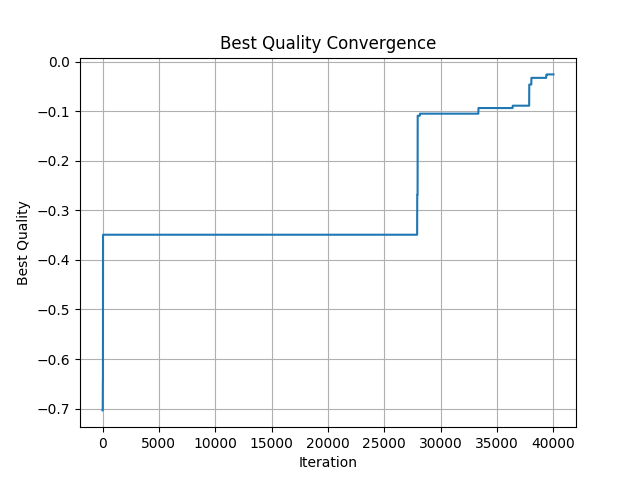
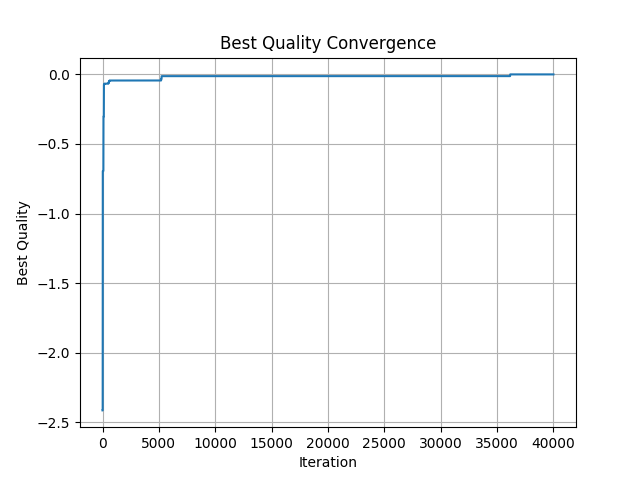
debugando

diff --git a/lab4/particle_swarm_optimization.py b/lab4/particle_swarm_optimization.py
@@ -17,14 +17,15 @@ class Particle:
         :type upper_bound: numpy array.
         """
         # Todo: implement
-        quantity_of_dimensions = len(lower_bound)
-
         self.position = np.zeros(np.size(lower_bound))
-        for i in range(quantity_of_dimensions):
+        self.velocity = np.zeros(np.size(lower_bound))
+        for i in range(np.size(lower_bound)):
+            delta_bound = upper_bound[i] - lower_bound[i]
             random_position = random.uniform(lower_bound[i], upper_bound[i])
+            random_velocity = random.uniform(-delta_bound, delta_bound)
             self.position[i] = random_position
+            self.velocity[i] = random_velocity
 
-        self.velocity = 0
         self.my_best_value = -inf
         self.my_best_position = self.position
 
@@ -46,19 +47,24 @@ class ParticleSwarmOptimization:
     """
     def __init__(self, hyperparams, lower_bound, upper_bound):
         # Todo: implement
-        self.hyperparams = hyperparams
+        self.num_particles = hyperparams.num_particles
+        self.inertia_weight = hyperparams.inertia_weight
+        self.cognitive_parameter = hyperparams.cognitive_parameter
+        self.social_parameter = hyperparams.social_parameter
+
         self.lower_bound = lower_bound
         self.upper_bound = upper_bound
         self.quantity_of_dimensions = np.size(lower_bound)
 
         self.particles = []
-        for i in range(self.hyperparams.num_particles):
-            self.particles.append(Particle(self.lower_bound, self.upper_bound))
+        for i in range(self.num_particles):
+            particle = Particle(self.lower_bound, self.upper_bound)
+            self.particles.append(particle)
 
         self.global_best_value = -inf
         self.global_best_position = self.particles[0].position
 
-        self.count_particles_evaluated = 0
+        self.count_particle_to_evaluate = 0
 
     def get_best_position(self):
         """
@@ -88,7 +94,7 @@ class ParticleSwarmOptimization:
         :rtype: numpy array.
         """
         # Todo: implement
-        position_to_evaluate = self.particles[self.count_particles_evaluated].position
+        position_to_evaluate = self.particles[self.count_particle_to_evaluate].position
 
         return position_to_evaluate
 
@@ -97,25 +103,31 @@ class ParticleSwarmOptimization:
         Advances the generation of particles.
         """
         # Todo: implement
+        print("\nAdvance generation")
+        i = 0
         for particle in self.particles:
+            print("\nparticula " + str(i))
             r_p = random.uniform(0, 1)
             r_g = random.uniform(0, 1)
 
-            particle.velocity = self.hyperparams.inertia_weight * particle.velocity + \
-                                self.hyperparams.cognitive_parameter * r_p * \
-                                (particle.my_best_position - particle.position) - \
-                                self.hyperparams.social_parameter * r_g * \
-                                (self.global_best_position - particle.position)
+            print("velocity antiga: " + str(particle.velocity))
+            particle.velocity = self.inertia_weight * particle.velocity + \
+                                self.cognitive_parameter * r_p * (particle.my_best_position - particle.position) - \
+                                self.social_parameter * r_g * (self.global_best_position - particle.position)
+            print("primeiro calculo de velocity: " + str(particle.velocity))
 
             for i in range(self.quantity_of_dimensions):
                 particle.velocity[i] = min(max(particle.velocity[i], -(self.upper_bound[i] - self.lower_bound[i])),
                                            self.upper_bound[i] - self.lower_bound[i])
+            print("velocity corrigido: " + str(particle.velocity))
 
+            print("position antiga: " + str(particle.position))
             particle.position = particle.position + particle.velocity
+            print("primeiro calculo de position: " + str(particle.position))
 
             for i in range(self.quantity_of_dimensions):
-                particle.position[i] = min(max(particle.position[i], -(self.upper_bound[i] - self.lower_bound[i])),
-                                           self.upper_bound[i] - self.lower_bound[i])
+                particle.position[i] = min(max(particle.position[i], self.lower_bound[i]), self.upper_bound[i])
+            print("position corrigido: " + str(particle.position))
 
     def notify_evaluation(self, value):
         """
@@ -125,17 +137,26 @@ class ParticleSwarmOptimization:
         :type value: float.
         """
         # Todo: implement
-        current_particle_evaluated = self.particles[self.count_particles_evaluated]
+        current_particle_evaluated = self.particles[self.count_particle_to_evaluate]
+        print("\nParticula " + str(self.count_particle_to_evaluate))
+        print("current position: " + str(current_particle_evaluated.position))
+        print("current velocity: " + str(current_particle_evaluated.velocity))
+        print("current value: " + str(value))
+        print("global best value: " + str(self.global_best_value))
+        print("my best value: " + str(current_particle_evaluated.my_best_value))
+        print("my best position: " + str(current_particle_evaluated.my_best_position))
 
         if value > current_particle_evaluated.my_best_value:
-            current_particle_evaluated.my_best_value = value
-            current_particle_evaluated.my_best_position = current_particle_evaluated.position
+            print("* melhor que my best value")
+            current_particle_evaluated.my_best_value = float(value)
+            current_particle_evaluated.my_best_position = np.array(current_particle_evaluated.position)
 
         if value > self.global_best_value:
-            self.global_best_value = value
-            self.global_best_position = current_particle_evaluated.position
+            print("** melhor que global best value")
+            self.global_best_value = float(value)
+            self.global_best_position = np.array(current_particle_evaluated.position)
 
-        self.count_particles_evaluated = self.count_particles_evaluated + 1
-        if self.count_particles_evaluated == self.hyperparams.num_particles:
-            self.count_particles_evaluated = 0
+        self.count_particle_to_evaluate = self.count_particle_to_evaluate + 1
+        if self.count_particle_to_evaluate == self.num_particles:
+            self.count_particle_to_evaluate = 0
             self.advance_generation()
